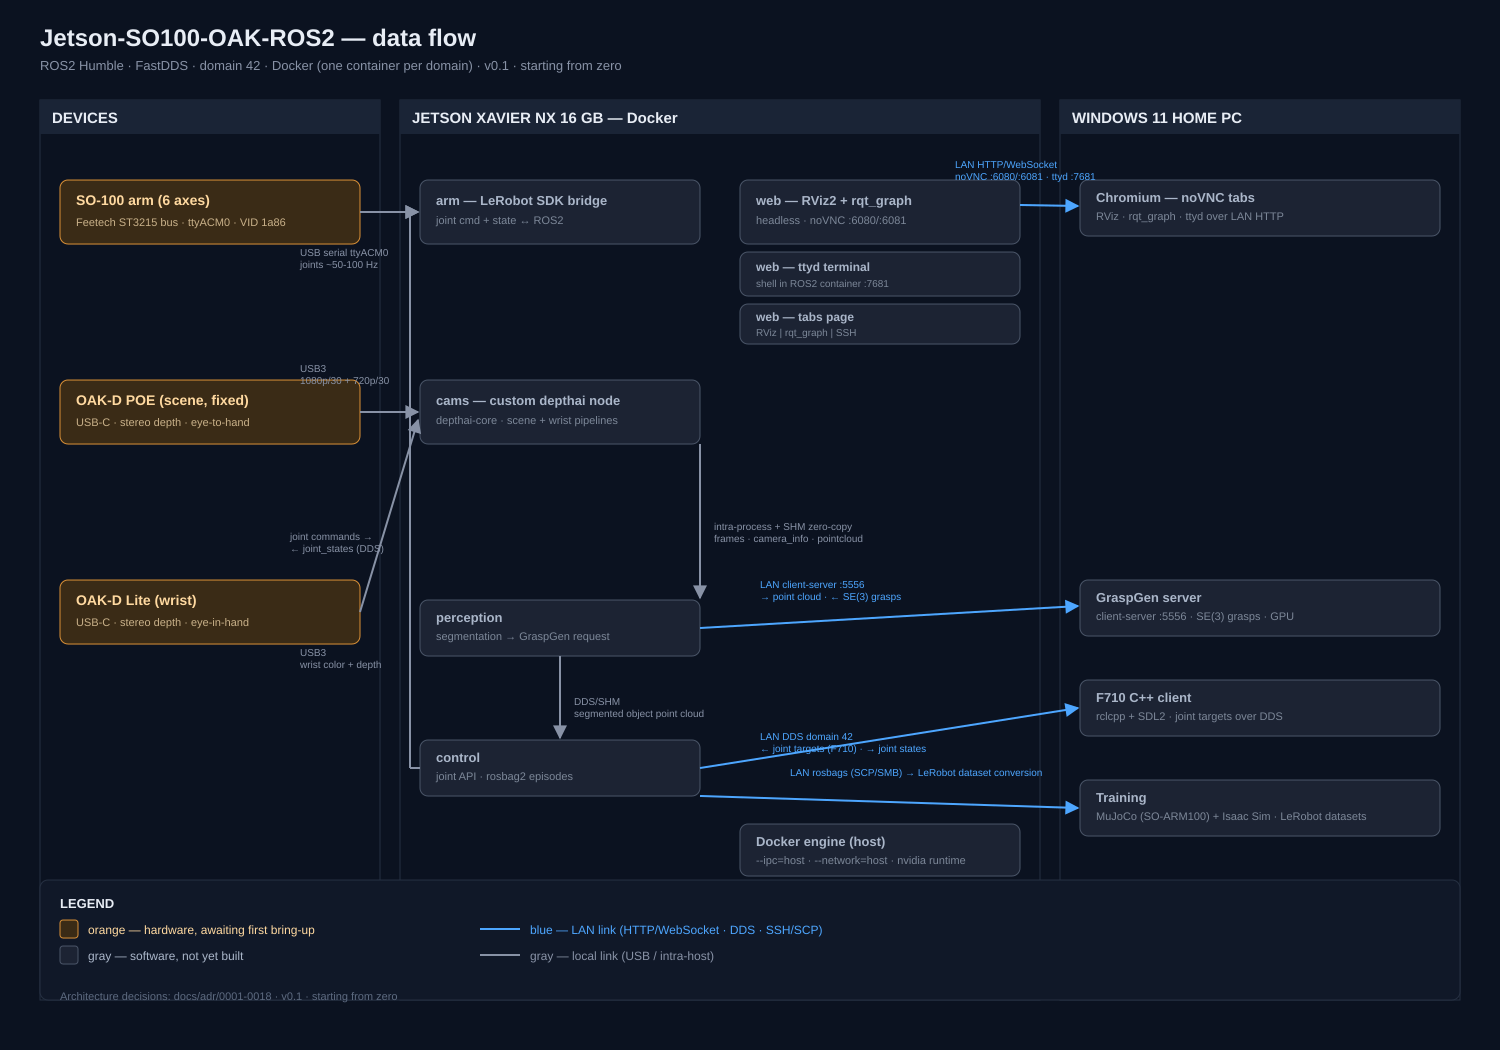
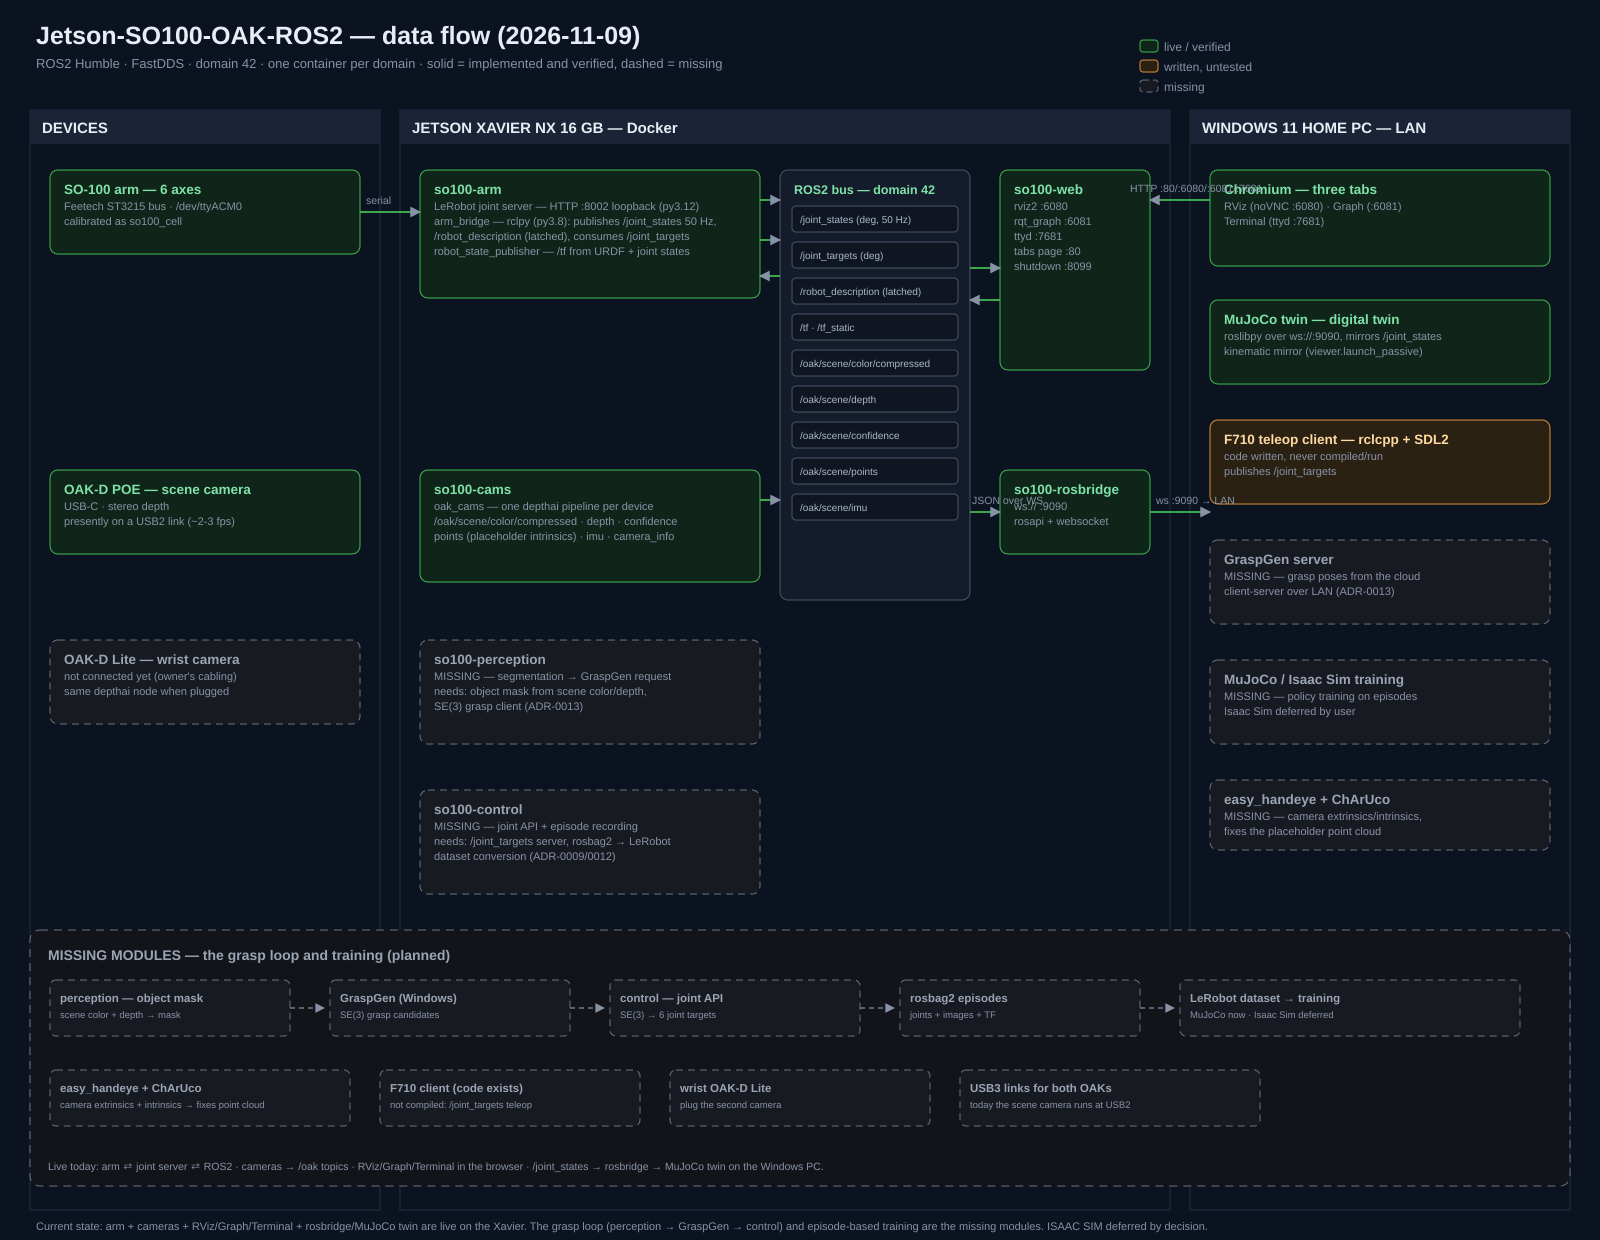
docs: redraw the data-flow diagram for the current implementation + missing modules

diff --git a/README.md b/README.md
@@ -6,6 +6,8 @@ A Windows 11 Home PC on the same LAN provides visualization (noVNC in Chromium),
 
 ![Data flow](docs/architecture-flow.png)
 
+**Legend:** solid green = implemented and verified on the Xavier; amber = code written but never run; dashed grey = missing. The bottom band lists the modules still to build (the grasp loop and episode-based training).
+
 ## Status
 
 - [x] Phase 0: repo + engineering prompt (`docs/PROMPT.md`)
